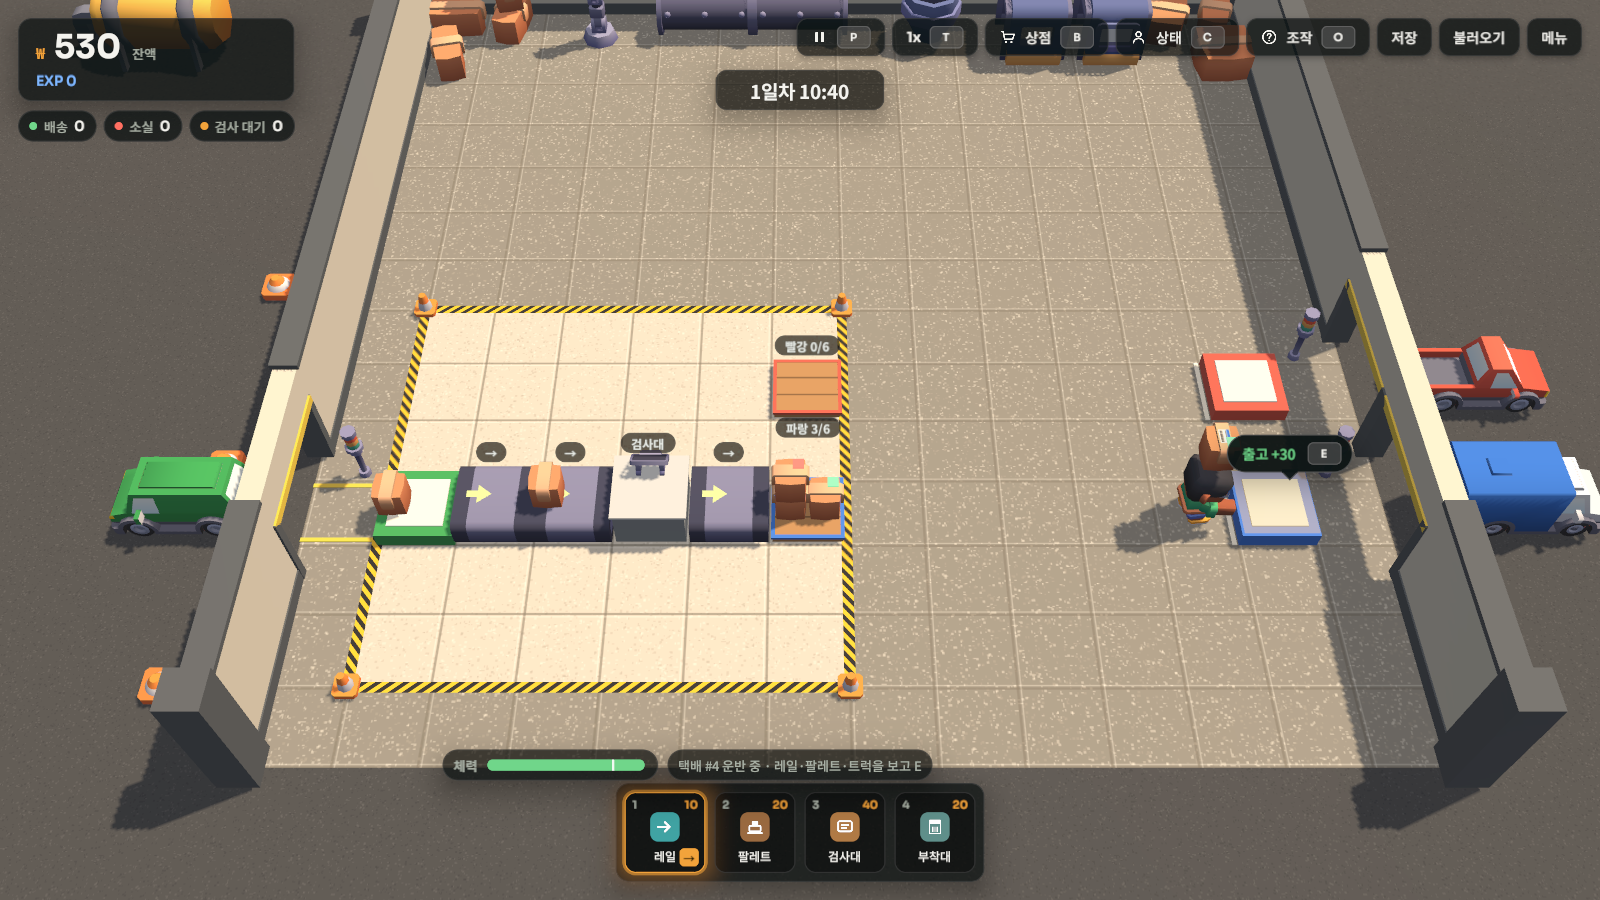
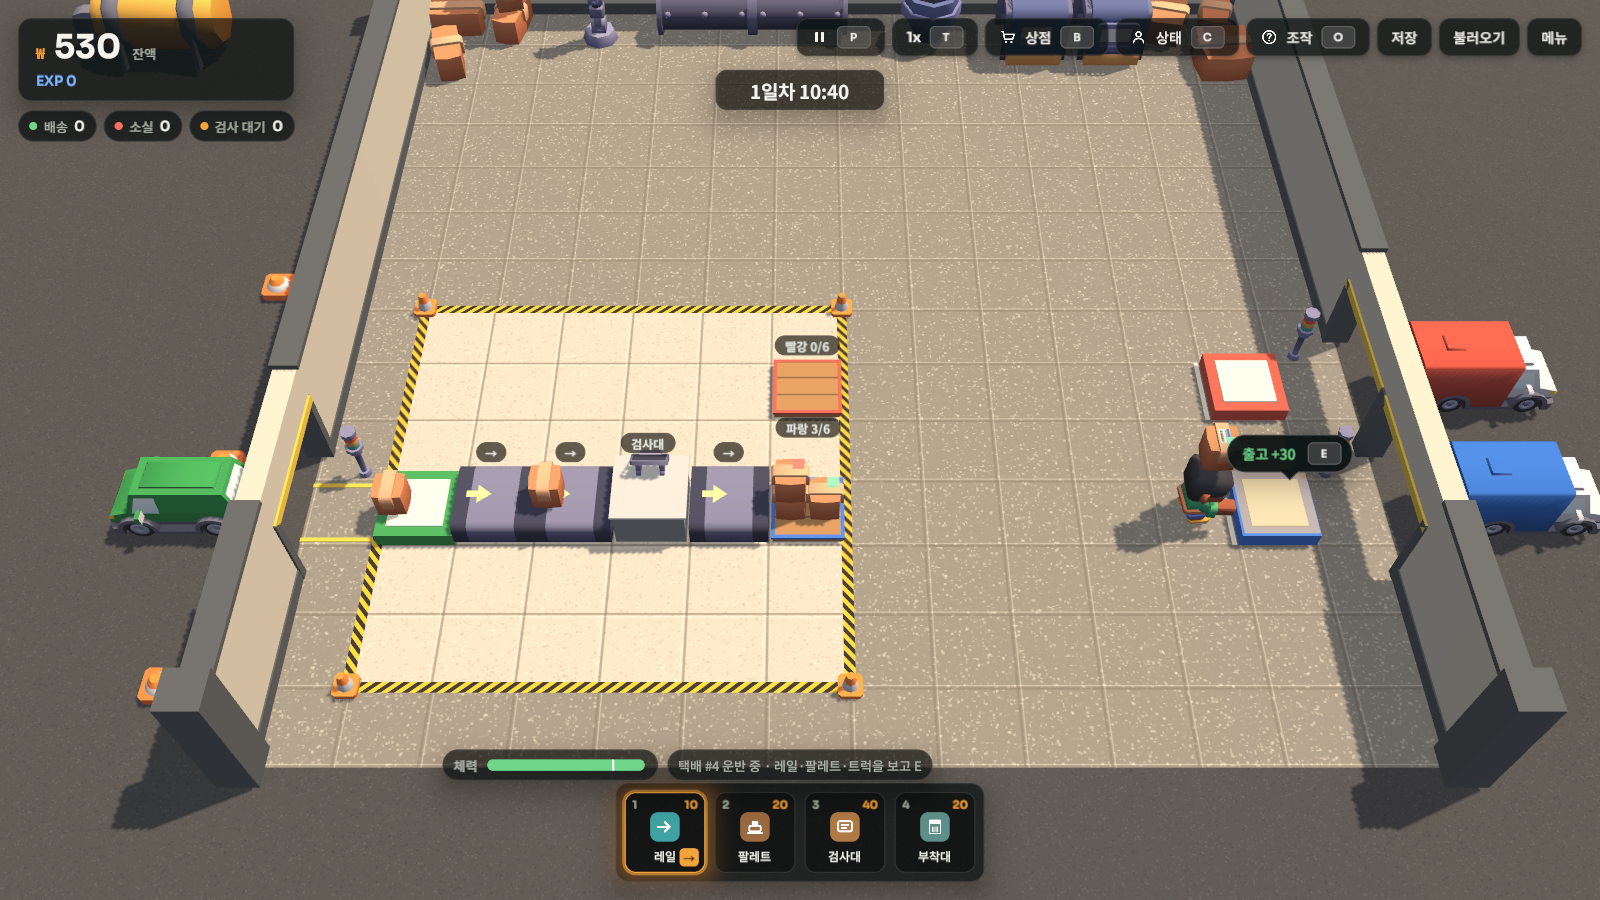
feat: unified box trucks on the east side and full-top air marks
- All four east-side trucks now use the covered box-truck model; only
  the colour differs (blue, red, green, yellow).
- The air mark covers the whole box top (94%); the waybill sits on top
  of it in the centre. The waybill card's box matches, and its drop-zone
  label gets an outline so it reads over the mark.

Changed region(s): [[0.8438, 0.3422, 0.9688, 0.4978], [0.75, 0.56, 0.8438, 0.5911]]

diff --git a/Assets/Scripts/Game/PackageViews.cs b/Assets/Scripts/Game/PackageViews.cs
@@ -103,20 +103,20 @@ namespace ParcelFactory.Game
             return go;
         }
 
-        /// <summary>항공 마크가 상자 윗면 폭에서 차지하는 비율. 스펙 15.3으로 윗면 모서리로 옮기면서 14.2의 55%에서 줄였다.</summary>
-        public const float AirMarkFraction = 0.45f;
-        /// <summary>운송장 쿼드 크기(윗면 폭 대비 가로·세로). 가운데에 놓이고, 모서리의 항공 마크가 운송장 귀퉁이에 살짝 걸치면 마크가 위에 보인다.</summary>
+        /// <summary>항공 마크가 상자 윗면 폭에서 차지하는 비율(사용자 요청 2026-10-22: 윗면 전체에 보이게). 가장자리 3%만 골판지가 보인다.</summary>
+        public const float AirMarkFraction = 0.94f;
+        /// <summary>운송장 쿼드 크기(윗면 폭 대비 가로·세로). 가운데, 항공 마크 위에 붙는다.</summary>
         public const float WaybillWidthFraction = 0.5f, WaybillDepthFraction = 0.32f;
 
         /// <summary>
-        /// 상자 윗면 모서리(로컬 −x, +z)의 항공 마크(Resources/UI/Icons/mark-air: 파란 둥근 사각 + 흰 비행기 + 흰 테두리, 스펙 14.2·15.3).
-        /// 가운데 운송장보다 살짝 위, 검사 도장·체크(두께 0.02)보다 아래. 꺼진 채로 만든다.
+        /// 상자 윗면 전체를 덮는 항공 마크(Resources/UI/Icons/mark-air: 파란 둥근 사각 + 흰 비행기 + 흰 테두리, 스펙 14.2·15.3).
+        /// 운송장은 그 위 가운데에 붙는다(마크 +0.006, 운송장 +0.012). 꺼진 채로 만든다.
         /// </summary>
         private static GameObject AirMark(Transform box, Bounds b)
         {
             float w = Mathf.Min(b.size.x, b.size.z);
-            float side = w * AirMarkFraction, inset = w * 0.03f;
-            var pos = new Vector3(b.min.x + inset + side / 2f, b.max.y + 0.012f, b.max.z - inset - side / 2f); // 운송장(+0.006) 위, z-파이팅 방지
+            float side = w * AirMarkFraction;
+            var pos = new Vector3(b.center.x, b.max.y + 0.006f, b.center.z); // 운송장(+0.012) 아래, z-파이팅 방지
             return TopQuad(box, "AirMark", pos, new Vector2(side, side), MaterialLibrary.Decal(Resources.Load<Texture2D>("UI/Icons/mark-air")));
         }
 
@@ -124,7 +124,7 @@ namespace ParcelFactory.Game
         private static GameObject WaybillQuad(Transform box, Bounds b)
         {
             float w = Mathf.Min(b.size.x, b.size.z);
-            var pos = new Vector3(b.center.x, b.max.y + 0.006f, b.center.z);
+            var pos = new Vector3(b.center.x, b.max.y + 0.012f, b.center.z);
             return TopQuad(box, "Waybill", pos, new Vector2(w * WaybillWidthFraction, w * WaybillDepthFraction), MaterialLibrary.Waybill(false));
         }
 

diff --git a/Assets/Scripts/Game/WaybillCard.cs b/Assets/Scripts/Game/WaybillCard.cs
@@ -59,12 +59,12 @@ namespace ParcelFactory.Game
             Root = UiKit.ModalBackdrop("Waybill", hudRoot).rectTransform;
             Card = UiKit.Card("Card", Root, new Vector2(CardW, CardH), "운송장 붙이기");
 
-            // 왼쪽: 위에서 본 상자 + 테이프 + 항공 마크(모서리)
+            // 왼쪽: 위에서 본 상자 + 테이프 + 항공 마크(윗면 전체, 3D 상자와 같다)
             var box = UiKit.Box("BoxTop", Card, Center, Center, Center, BoxCenter, new Vector2(BoxW, BoxH), Cardboard, 18).rectTransform;
             UiKit.AddShadow(box, 18, UiKit.Elevation.Low);
             UiKit.Box("Tape", box, new Vector2(0.5f, 0f), new Vector2(0.5f, 1f), Center, Vector2.zero, new Vector2(44f, 0f), Tape, 0);
             UiKit.Box("Flap", box, new Vector2(0f, 0.5f), new Vector2(1f, 0.5f), Center, Vector2.zero, new Vector2(0f, 2f), new Color(0f, 0f, 0f, 0.12f), 0);
-            airMark = UiKit.Box("AirMark", box, new Vector2(0f, 1f), new Vector2(0f, 1f), new Vector2(0f, 1f), new Vector2(12f, -12f), new Vector2(44f, 44f), Color.white, 0);
+            airMark = UiKit.Box("AirMark", box, Center, Center, Center, Vector2.zero, Vector2.one * (Mathf.Min(BoxW, BoxH) - 16f), Color.white, 0);
             airMark.sprite = UiKit.Icon("mark-air"); airMark.type = Image.Type.Simple; airMark.preserveAspect = true;
 
             // 상자 중앙 점선 부착 영역(카드 직속: 운송장과 같은 좌표계)
@@ -75,8 +75,10 @@ namespace ParcelFactory.Game
                 DashEdge("Top", new Vector2(0f, 1f), new Vector2(1f, 1f), 0f), DashEdge("Bottom", new Vector2(0f, 0f), new Vector2(1f, 0f), 0f),
                 DashEdge("Left", new Vector2(0f, 0f), new Vector2(0f, 1f), 90f), DashEdge("Right", new Vector2(1f, 0f), new Vector2(1f, 1f), 90f),
             };
-            var zl = UiKit.Label("Label", Zone, "여기에 붙이기", 12, new Color(1f, 1f, 1f, 0.8f), TextAnchor.MiddleCenter, Fonts.Bold);
+            var zl = UiKit.Label("Label", Zone, "여기에 붙이기", 13, Color.white, TextAnchor.MiddleCenter, Fonts.Bold);
             zl.raycastTarget = false;
+            var zo = zl.gameObject.AddComponent<Outline>(); // 상자 윗면 전체의 항공 마크(파랑·흰 비행기) 위에서도 읽히게
+            zo.effectColor = new Color(0.05f, 0.08f, 0.12f, 0.85f); zo.effectDistance = new Vector2(1.5f, -1.5f);
 
             // 오른쪽: 운송장 한 장(끌 수 있다)
             Paper = UiKit.Box("Paper", Card, Center, Center, Center, PaperHome, new Vector2(PaperW, PaperH), PaperWhite, 6).rectTransform;

diff --git a/Assets/Scripts/Game/WorldBuilder.cs b/Assets/Scripts/Game/WorldBuilder.cs
@@ -288,7 +288,7 @@ namespace ParcelFactory.Game
             // 트럭 도크(스펙 10.1)는 동쪽 벽 출입구 바로 안쪽 칸 (11,2)·(11,4). 좌표는 FactoryGrid에서만 읽는다.
             Dock(docks, FactoryGrid.InletX, FactoryGrid.InletY, InletSlab, "van", -8.5f, -90f, truck: false, InletVan);
             Dock(docks, FactoryGrid.OutletX, FactoryGrid.OutletY, new Color(0.24f, 0.48f, 0.88f), "delivery", 8.6f, 90f, truck: true, Hex(0x3D7BE0));
-            Dock(docks, FactoryGrid.ReturnDockX, FactoryGrid.ReturnDockY, new Color(0.85f, 0.35f, 0.29f), "truck", 8.6f, 90f, truck: true, Hex(0xD95A4A));
+            Dock(docks, FactoryGrid.ReturnDockX, FactoryGrid.ReturnDockY, new Color(0.85f, 0.35f, 0.29f), "delivery", 8.6f, 90f, truck: true, Hex(0xD95A4A), "Dock_truck"); // 이름은 예전 그대로(테스트·참조 호환), 차량은 탑차로 통일
         }
 
         /// <summary>항공 트럭 색(스펙 14.1): 항공 출고 초록, 항공 반품 노랑.</summary>
@@ -318,7 +318,7 @@ namespace ParcelFactory.Game
             if (airOut)
                 AirSign(Dock(airDocks, FactoryGrid.AirOutletX, FactoryGrid.AirOutletY, AirOutletColor, "delivery", 8.6f, 90f, truck: true, AirOutletColor, "Dock_air-outlet"), AirOutletColor);
             if (airRet)
-                AirSign(Dock(airDocks, FactoryGrid.AirReturnDockX, FactoryGrid.AirReturnDockY, AirReturnColor, "truck", 8.6f, 90f, truck: true, AirReturnColor, "Dock_air-return"), AirReturnColor);
+                AirSign(Dock(airDocks, FactoryGrid.AirReturnDockX, FactoryGrid.AirReturnDockY, AirReturnColor, "delivery", 8.6f, 90f, truck: true, AirReturnColor, "Dock_air-return"), AirReturnColor);
         }
 
         /// <summary>입고 트럭 색(초록). 부지 확장 입고구도 (0,2)와 같다.</summary>

diff --git a/Assets/Tests/Game/LabelerTests.cs b/Assets/Tests/Game/LabelerTests.cs
@@ -140,9 +140,10 @@ namespace ParcelFactory.Game.Tests
                 Assert.AreSame(MaterialLibrary.Waybill(true), wb.GetComponent<Renderer>().sharedMaterial, "rejected parcel should carry a red-band return waybill");
                 var mark = box.transform.Find("AirMark");
                 Assert.IsTrue(mark.gameObject.activeSelf);
-                Assert.Less(mark.localPosition.x, wb.localPosition.x - 0.05f, "air mark should sit at a top corner");
-                Assert.Greater(mark.localPosition.z, wb.localPosition.z + 0.05f, "air mark should sit at a top corner");
-                Assert.Greater(mark.localPosition.y, wb.localPosition.y + 0.004f, "air mark above the waybill (no z-fighting)");
+                Assert.AreEqual(wb.localPosition.x, mark.localPosition.x, 0.001f, "air mark is centred on the box top");
+                Assert.AreEqual(wb.localPosition.z, mark.localPosition.z, 0.001f, "air mark is centred on the box top");
+                Assert.Greater(mark.localScale.x, wb.localScale.x * 1.5f, "air mark covers the whole top, larger than the waybill");
+                Assert.Greater(wb.localPosition.y, mark.localPosition.y + 0.004f, "waybill sits above the air mark (no z-fighting)");
 
                 // 하루 요약은 운송장 카드보다 위에 뜬다.
                 var q = new PackageFactory(new System.Random(13), 0.0).Create(boot.Session.Sim.NextId++, 0, 0, Direction.East);

diff --git a/Assets/Tests/Game/AirTests.cs b/Assets/Tests/Game/AirTests.cs
@@ -53,7 +53,7 @@ namespace ParcelFactory.Game.Tests
                 Assert.AreEqual(Grid3D.Tile(11, 7).z, outSlab.transform.position.z, 1e-3f);
                 Assert.AreEqual(Grid3D.Tile(11, 9).z, retSlab.transform.position.z, 1e-3f);
                 Assert.IsNotNull(GameObject.Find("World/AirDocks/Dock_air-outlet/delivery"), "green air truck missing");
-                Assert.IsNotNull(GameObject.Find("World/AirDocks/Dock_air-return/truck"), "yellow air truck missing");
+                Assert.IsNotNull(GameObject.Find("World/AirDocks/Dock_air-return/delivery"), "yellow air truck missing (box truck, same model as the others)");
                 Assert.IsNotNull(GameObject.Find("World/AirDocks/Dock_air-outlet/AirSign/Board/Icon"), "air sign missing");
                 Assert.IsNotNull(GameObject.Find("World/AirDocks/Dock_air-return/AirSign/Board/Icon"), "air sign missing");
                 var outC = outSlab.GetComponent<Renderer>().sharedMaterial.GetColor("_BaseColor");

diff --git a/docs/superpowers/specs/2026-10-15-parcel-factory-design.md b/docs/superpowers/specs/2026-10-15-parcel-factory-design.md
@@ -406,7 +406,7 @@ Unity 레이어는 수동 플레이 테스트로 확인한다.
 
 ### 14.1 항공 도크
 
-- 새 칸 종류 `AirOutlet`(항공 출고, **초록** 트럭)과 `AirReturnDock`(항공 반품, **노랑** 트럭). 위치는 동쪽 벽 안쪽 `(11,7)`과 `(11,9)`. 기존 출고 `(11,2)`·반품 `(11,4)`과 같은 모양의 도크·벽 출입구·트럭이다.
+- 새 칸 종류 `AirOutlet`(항공 출고, **초록** 트럭)과 `AirReturnDock`(항공 반품, **노랑** 트럭). 위치는 동쪽 벽 안쪽 `(11,7)`과 `(11,9)`. 기존 출고 `(11,2)`·반품 `(11,4)`과 같은 모양의 도크·벽 출입구·트럭이다. 동쪽 트럭 네 대는 모두 지붕 있는 탑차(`delivery` 모델)로 통일하고 색만 다르다: 출고 파랑 · 반품 빨강 · 항공 출고 초록 · 항공 반품 노랑(2026-10-22 사용자 수정).
 - 부지 확장 2를 사는 순간 두 칸이 도크로 바뀌고 트럭이 나타난다(`FactoryGrid.UnlockRegion(12)`에서 만든다. 확장 전에는 그 칸이 잠긴 칸이라 충돌이 없다). 단, v6 저장에서 부지 확장 2 뒤 그 두 칸에 지어 둔 설치물은 불러올 때 철거하고 설치비 전액을 돌려준다. 그 위에 있던 택배는 소실로 센다. 확장 전에는 트럭도 출입구도 없다. 저장 파일을 불러와도 같은 규칙으로 다시 생긴다.
 - 도크 동작은 기존 도크와 같다: 레일이 밀어 넣거나 작업자가 들고 와서 E. 해체·설치 불가. 기존 도크처럼 걸어서 지나갈 수 있다(스펙 10.3).
 - 기존 입고 트럭도 초록이지만 서쪽 벽에 있어 위치로 구분된다. 항공 트럭 지붕에는 상자와 같은 항공 마크(`mark-air`)를 평평하게 붙인다(2026-10-21 사용자 수정: 떠 있는 표지판 대신).
@@ -414,7 +414,7 @@ Unity 레이어는 수동 플레이 테스트로 확인한다.
 ### 14.2 항공 택배
 
 - 부지 확장 2 이후 새로 들어오는 택배의 25%가 항공 택배다(`Package.Air = true`, 라벨 배송 방법 `항공`). 확장 전에는 만들지 않는다.
-- 상자 윗면 가운데에 항공 마크(`Assets/Resources/UI/Icons/mark-air.png`: 파란 둥근 사각 + 흰 비행기 + 흰 테두리, 상자 윗면 폭의 약 55%)를 붙인다. 레일 위·팔레트 더미·손에 든 상태 모두 보인다. 검사 전에도 보인다(겉 라벨이므로).
+- 상자 윗면 전체에 항공 마크(`Assets/Resources/UI/Icons/mark-air.png`: 파란 둥근 사각 + 흰 비행기 + 흰 테두리, 윗면 폭의 94%)를 붙인다. 레일 위·팔레트 더미·손에 든 상태 모두 보인다. 검사 전에도 보인다(겉 라벨이므로).
 - 검사 카드의 배송 방법 줄에 `항공`과 비행기 아이콘을 보인다. 미니 상태바·프롬프트는 항공 택배를 들고 있으면 `항공` 꼬리표를 붙인다(예: `항공 출고 +30`).
 
 ### 14.3 판정 (스펙 9.3 표를 확장)
@@ -451,7 +451,7 @@ Unity 레이어는 수동 플레이 테스트로 확인한다.
 
 ### 15.2 운송장 카드 (드래그로 붙이기)
 
-- §12 카드 스타일, 폭 약 600. 왼쪽: 위에서 내려다본 상자(골판지색 둥근 사각, 테이프 줄, 항공이면 모서리에 항공 마크), 상자 중앙에 점선 둥근 사각 **부착 영역**. 오른쪽: 운송장 한 장(흰 종이, 둥근 모서리 6, 그림자). 운송장 종류는 택배에 맞게 하나만 나온다:
+- §12 카드 스타일, 폭 약 600. 왼쪽: 위에서 내려다본 상자(골판지색 둥근 사각, 테이프 줄, 항공이면 윗면 전체에 항공 마크), 상자 중앙에 점선 둥근 사각 **부착 영역**. 오른쪽: 운송장 한 장(흰 종이, 둥근 모서리 6, 그림자). 운송장 종류는 택배에 맞게 하나만 나온다:
   - 승인 → `출고 운송장`(머리띠 파랑), 거부 → `반품 운송장`(머리띠 빨강). 항공 택배면 머리띠 옆에 비행기 배지와 `항공`.
   - 내용: 택배 번호, 목적지(크게), 표기 무게, 바코드 모양 줄.
 - 운송장을 마우스나 터치로 끌어 부착 영역에 놓으면 붙는다(운송장 중심이 영역 안). 붙으면 운송장이 영역 중앙에 착 맞춰지고 0.4초 뒤 카드가 닫히며 토스트 `운송장 부착`. 영역 밖에 놓으면 제자리로 돌아간다. 끄는 동안 운송장은 살짝 커지고(1.05배) 영역 테두리가 앰버로 밝아진다.
@@ -459,7 +459,7 @@ Unity 레이어는 수동 플레이 테스트로 확인한다.
 
 ### 15.3 판정과 자동화
 
-- `Package.Waybill`(bool). 운송장이 붙은 상자는 3D에서 윗면 **중앙**에 흰 운송장(머리띠 파랑/빨강, 바코드 줄)이 보인다. 항공 마크(스펙 14.2)는 상자 윗면 **모서리**로 옮긴다(운송장과 겹치지 않게).
+- `Package.Waybill`(bool). 운송장이 붙은 상자는 3D에서 윗면 **중앙**에 흰 운송장(머리띠 파랑/빨강, 바코드 줄)이 보인다. 항공 마크(스펙 14.2)는 상자 윗면 **전체**를 덮고(가장자리 3%만 골판지), 운송장은 그 위 가운데에 겹쳐 붙는다(2026-10-22 사용자 수정).
 - 자동 검사기를 지나는 택배는 검사와 함께 운송장도 자동으로 붙는다.
 - 판정 순서(스펙 9.3·14.3 확장): 운송 수단 틀림(−10) → 미검사(기존) → **운송장 없음**: 출고 도크(일반·항공) `NoWaybillToOutlet` −20, 반품 도크(일반·항공) `NoWaybillToReturn` −10, 둘 다 실패·EXP 없음 → 기존 결과.
 - 프롬프트는 결과 금액을 보인다(예: `출고 −20 · 운송장 없음`). 미니 상태바와 검사 카드에는 운송장 상태(`운송장 ✓`/`운송장 없음`)를 보인다.
